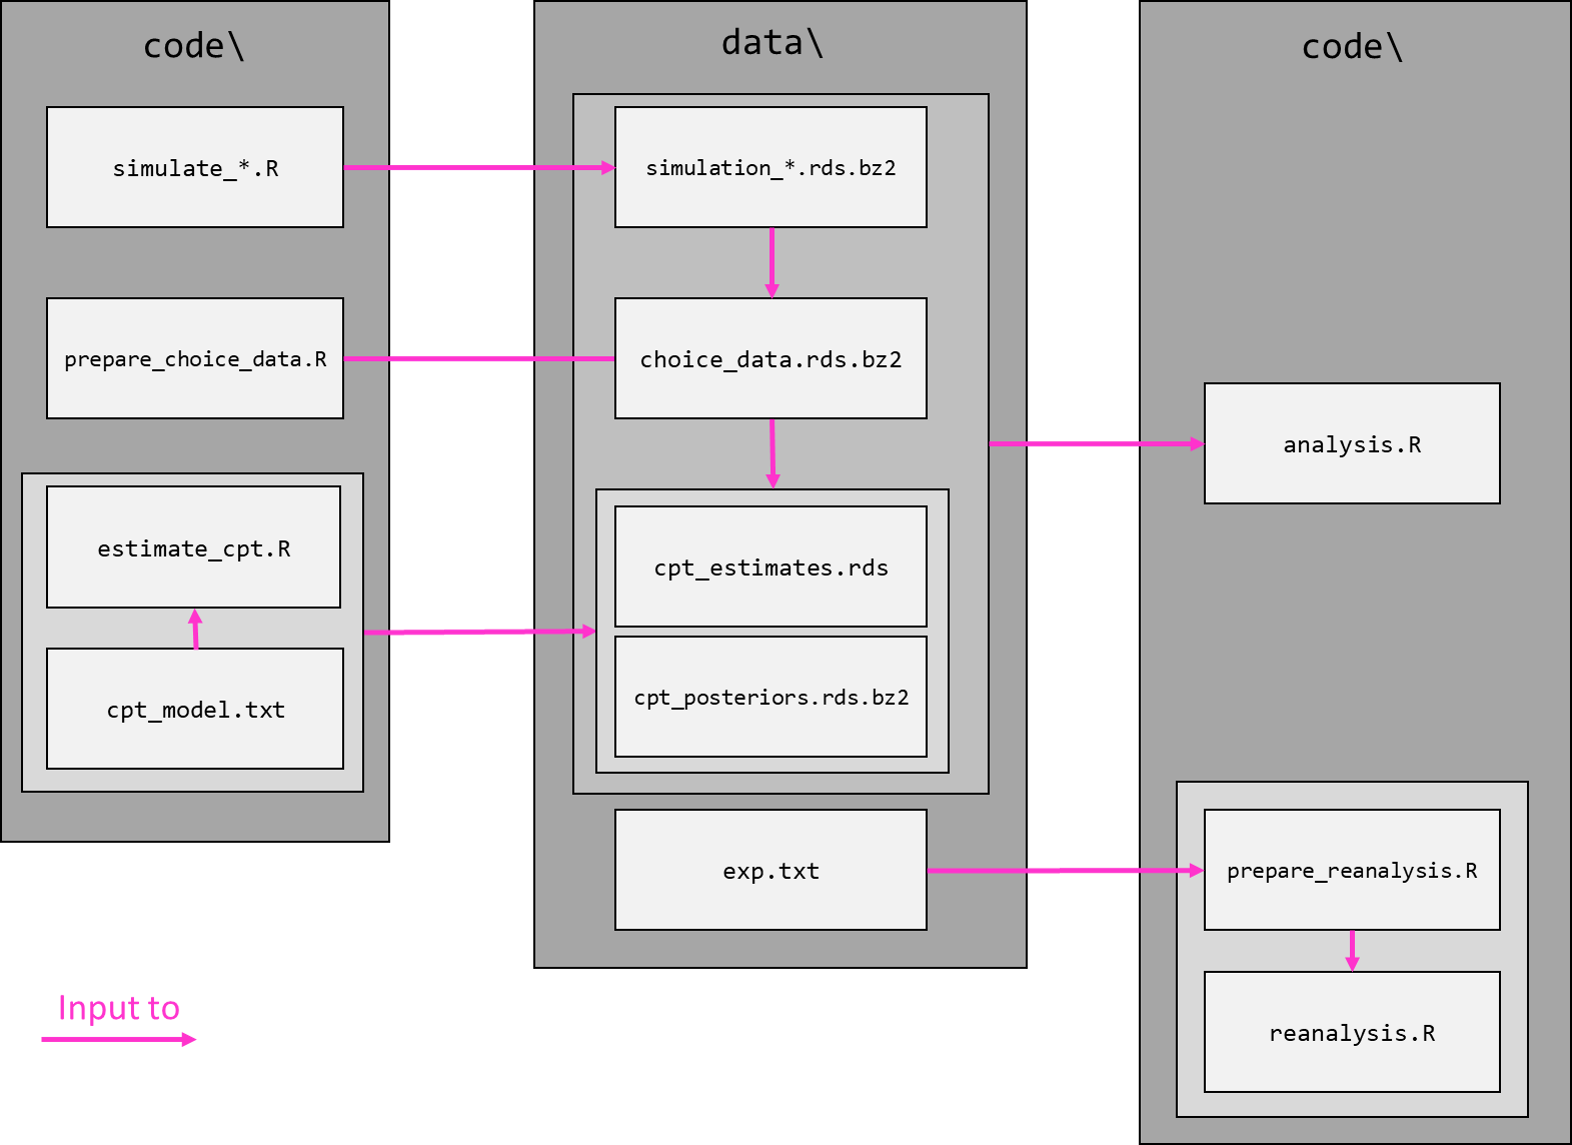
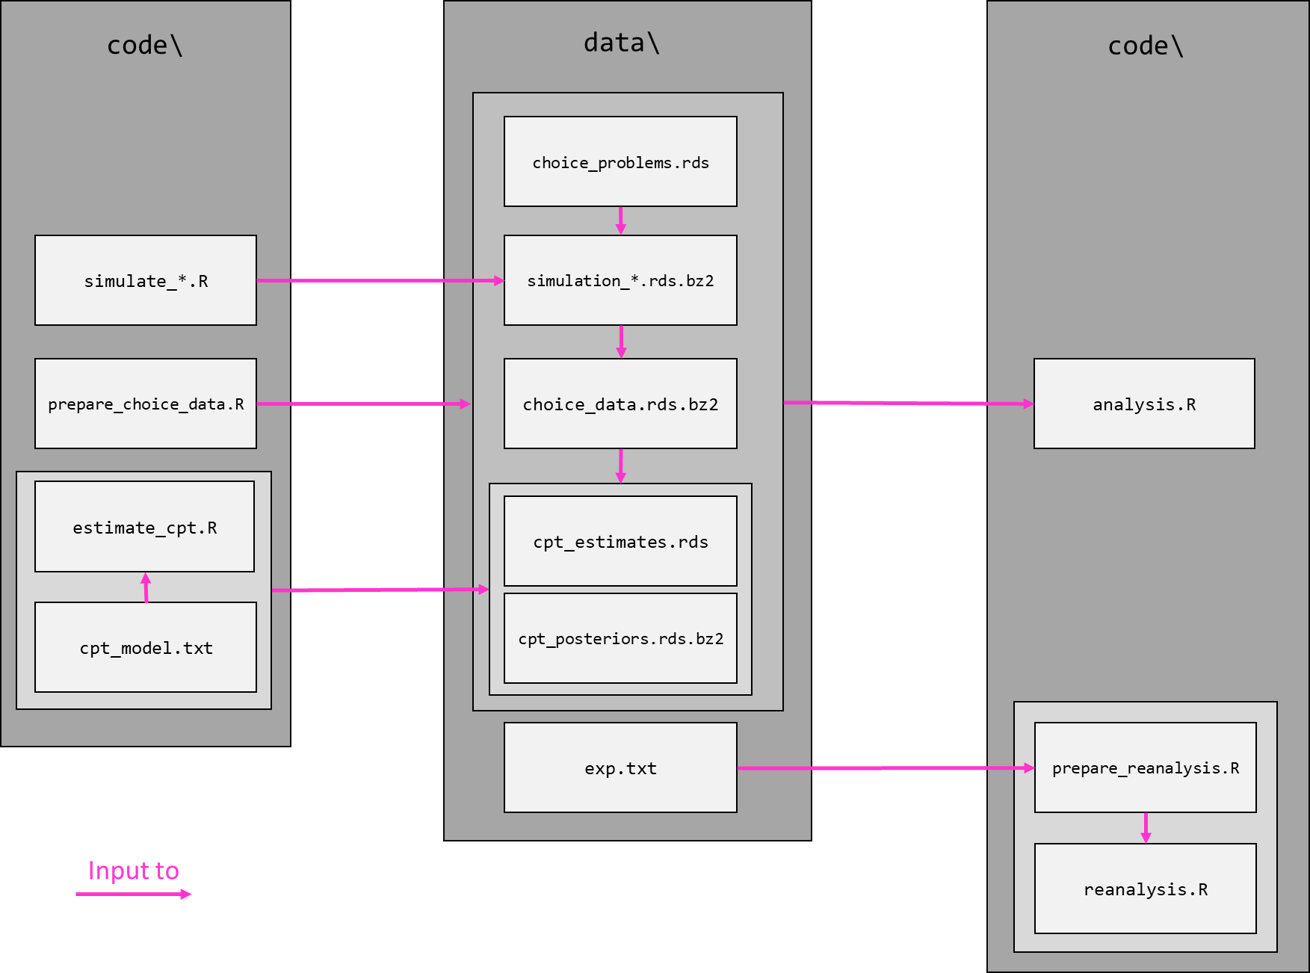
update documentation data

diff --git a/data/README.md b/data/README.md
@@ -1,81 +1,23 @@
+### Data set descriptions
 
-# Data sets
+| File                           | Description                                            | Retrieve From                               |
+|----------------------|----------------------------------|----------------|
+| `choice_problems.rds`          | Choice problems used for simulation                    | GitHub, OSF                                 |
+| `simulation_roundwise.rds.bz2` | Full simulation data for the roundwise comparison rule | OSF                                         |
+| `simulation_summary.rds.bz2`   | Full simulation data for the summary comparison rule   | OSF                                         |
+| `choice_data.rds.bz2`          | Précis of all simulated trials                         | GitHub, OSF                                 |
+| `cpt_estimates.rds`            | Précis of CPT posterior distributions                  | GitHub, OSF                                 |
+| `cpt_posteriors.rds`           | Full CPT posterior distributions (MCMC samples)        | OSF                                         |
+| `exp.txt`                      | Data compiled by Wulff et al. (2018)                   | [External](https://www.dirkwulff.org/#data) |
 
-All data sets can also be downloaded in one `.zip` file from the
-accompanying [OSF repository](https://osf.io/wcr5a/):
+### File Dependencies
+
+![](../documentation/file_dependencies.png)
+
+### OSF Links
+
+All data sets can also be downloaded in one `.zip` file from the accompanying [OSF repository](https://osf.io/wcr5a/):
 
 `.rds` files: <https://osf.io/7wh89>
 
 `.csv` files: <https://osf.io/cebhy>
-
-<table style="width:100%;">
-<colgroup>
-<col style="width: 15%" />
-<col style="width: 51%" />
-<col style="width: 32%" />
-</colgroup>
-<tbody>
-<tr class="odd">
-<td><h3 id="file">File</h3></td>
-<td><h3 id="description">Description</h3></td>
-<td><h3 id="checksum-sha-256">Checksum (SHA-256)</h3></td>
-</tr>
-<tr class="even">
-<td><code>choice_problems.rds</code></td>
-<td>Choice problems used for simulation</td>
-<td><code>bb2aff492c66e89e72eaf20a1dd9f03b77803ffec676c5d81ca1672509881d77</code></td>
-</tr>
-<tr class="odd">
-<td><code>simulation_roundwise.rds.bz2</code></td>
-<td>Exhaustive simulation data, containing all sampled outcomes and
-choices for round-wise comparisons</td>
-<td><code>7582d9cb842a7c3774c357a3e3385adacd505ea11c86f76cadd4021e0d45cd1e</code></td>
-</tr>
-<tr class="even">
-<td><code>simulation_summary.rds.bz2</code></td>
-<td>Exhaustive simulation data, containing all sampled outcomes and
-choices for summary comparisons</td>
-<td><code>eb2ab99f2e1fd8652d6b9571a2da3d06b8c1d75d5cd70cab7312519f9150188b</code></td>
-</tr>
-<tr class="odd">
-<td><code>choice_data.rds.bz2</code></td>
-<td>Trial-Level summaries of sampling (e.g., number of sampled outcomes,
-switching frequency) and choice data</td>
-<td><code>4d2691366562400c02a2c80a73ddb8ecd85c59cedf97590867a4a88ef7764b65</code></td>
-</tr>
-<tr class="even">
-<td><code>cpt_estimates.rds</code></td>
-<td>Précis of CPT posterior distributions</td>
-<td><code>75a2dcd742fd11e713a5873a06ba2877c3bf34d6b67b4f0cde112db1ad28ccba</code></td>
-</tr>
-<tr class="odd">
-<td><code>cpt_posteriors.rds</code></td>
-<td>MCMC samples of CPT posterior distributions</td>
-<td><code>faa2a52535728e7e1f87f47691b8b305c847b9f3d6c082737042c56923f60eb4</code></td>
-</tr>
-</tbody>
-</table>
-
-# Checksums
-
-Use the checksums, provided on this page and in the .zip files, to check
-whether the downloaded data sets are up-to-date and uncorrupted. In `R`,
-the `digest` package/function can be used to generate the checksum of
-\`\`your’’ data using the SHA-256 hash function.
-
-``` r
-pacman::p_load(digest, crayon)
-
-# create checksum
-your_checksum <- digest(your_data, algo="sha256")
-
-# check data set
-if(your_checksum != original_checksum){
-  warning("\u2716 Mismatch between your data and original data. Current checksum is: '", your_checksum, "'")
-} else{cat(green("\u2713 Data validated. Your data matches the original data."))
-```
-
-If the checksums are not the same, you are not operating on the exact
-same data set. Be aware that the checksums of data sets stored in
-different file format (e.g., `.csv` and `.rds`) while otherwise being
-identical, differ.

diff --git a/code/README.md b/code/README.md
@@ -1,7 +1,7 @@
 ### File Descriptions
 
 | File                   | Description                                                                                                                                       |
-|-------------------------|-----------------------------------------------|
+|------------------------|---------------------------------------------------------------------------------------------------------------------------------------------------|
 | `simulate_roundwise.R` | Simulates sampling strategies with a roundwise comparison rule; generates `simulation_roundwise.rds.bz2`                                          |
 | `simulate_summary.R`   | Simulates sampling strategies with a summary comparison rule; generates `simulation_summary.rds.bz2`                                              |
 | `prepare_analysis.R`   | Summarizes all 6,000,000 simulated trials (from `simulation_roundwise.rds.bz2` and `simulation_summary.rds.bz2)`; generates `choice_data.rds.bz2` |
